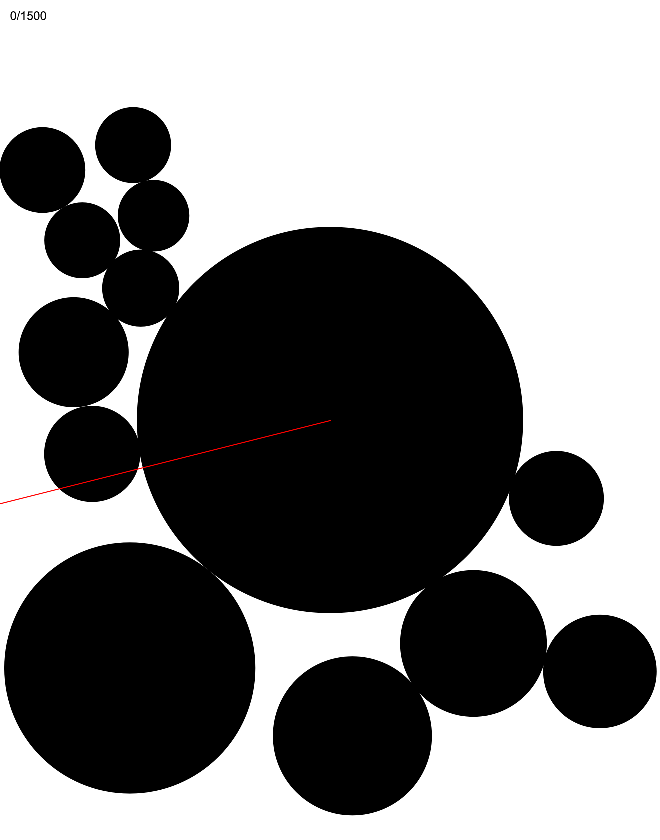
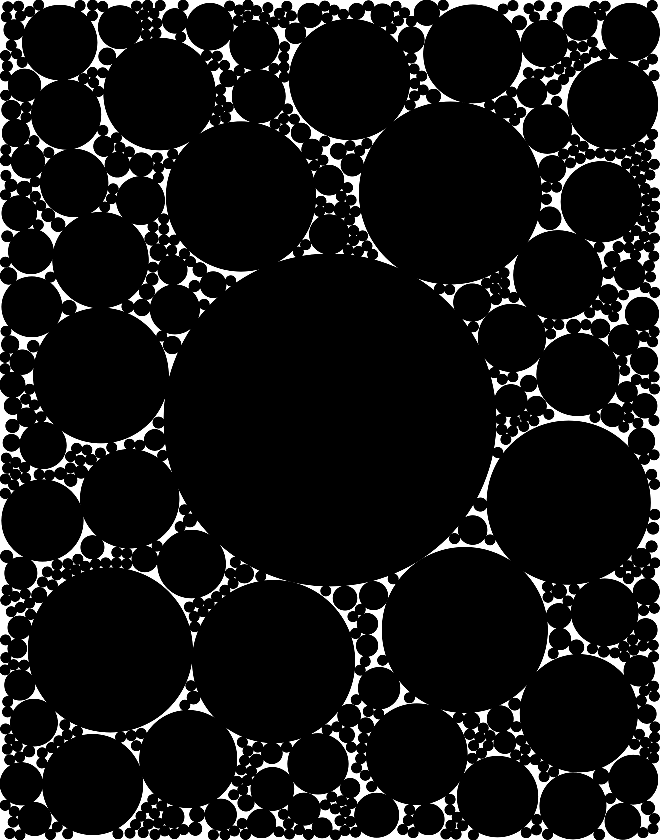
Updates

diff --git a/js/2018-12-30.js b/js/2018-12-30.js
@@ -59,6 +59,7 @@ function draw() {
 
   if (maxSize === minSize && noDrawCount === noDrawLimit) {
     noLoop();
+    drawingComplete = true;
   }
 
   circles.forEach(c => c.draw());
@@ -106,16 +107,3 @@ function draw() {
     noDrawCount++;
   }
 }
-
-// UNCOMMENT FOR INTERACTIVE SKETCHES
-// function touchMoved() {
-//   if (mouseX >= 0 && mouseY >= 0 && mouseX <= width && mouseY <= height) {
-//     return false
-//   };
-// }
-
-// If you want to capture a screenshot of the drawing at a different time,
-// set drawingComplete = true when it makes sense.
-setTimeout(() => {
-  drawingComplete = true;
-}, 1000);
